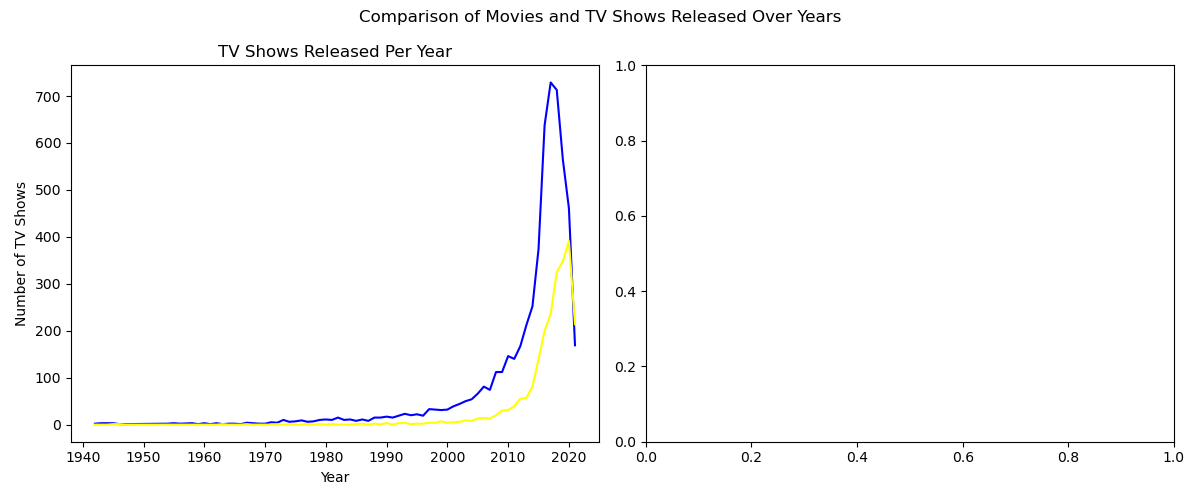
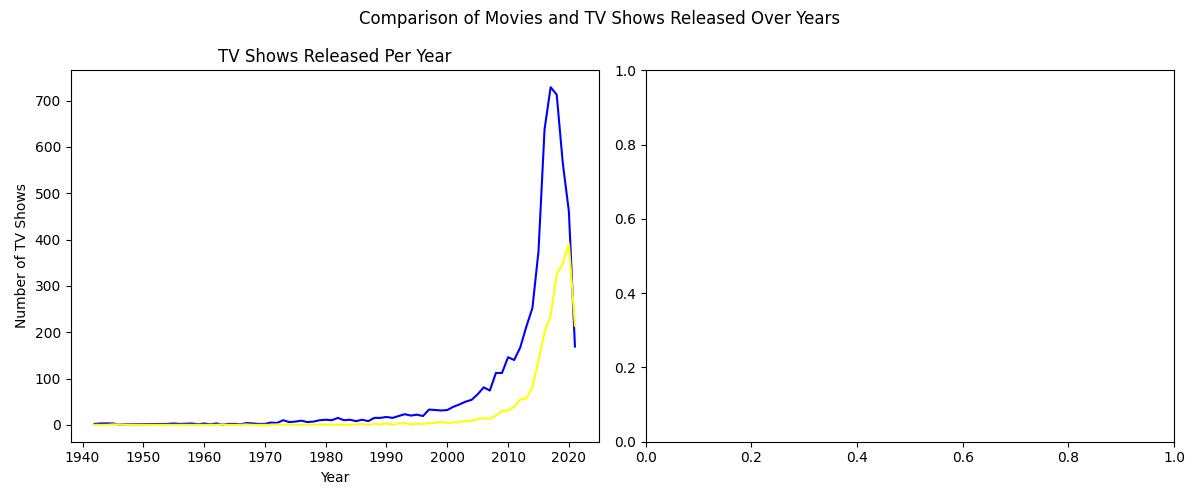
Updated Streamlit app with proper matplotlib display

diff --git a/netflix_data_visualization.py b/netflix_data_visualization.py
@@ -1,91 +1,73 @@
-#!/usr/bin/env python
-# coding: utf-8
-
-# In[1]:
-
-
+import streamlit as st
 import pandas as pd
 import matplotlib.pyplot as plt
-#load data
-df = pd.read_csv('netflix_titles.csv')
 
-#clean data
-df = df.dropna(subset=['type','release_year','rating','country','duration'])
+# Title
+st.title("📊 Netflix Data Visualization")
+
+# Load the CSV
+df = pd.read_csv("netflix_titles.csv")
+
+# Clean data
+df = df.dropna(subset=['type', 'release_year', 'rating', 'country', 'duration'])
+
+# Type count (Movies vs TV Shows)
+st.subheader("1. Number of Movies vs TV Shows on Netflix")
 type_counts = df['type'].value_counts()
-plt.figure(figsize=(6,4))
-plt.bar(type_counts.index,type_counts.values,color=['skyblue','orange'])
-plt.title('Number of Movies  VS TV Shows on Netflix')
-plt.xlabel('Type')
-plt.ylabel('Count')
-plt.tight_layout()
-plt.savefig('movies_vs_tvshows.png')
-plt.show()
+fig1, ax1 = plt.subplots()
+ax1.bar(type_counts.index, type_counts.values, color=['skyblue', 'orange'])
+ax1.set_title('Number of Movies vs TV Shows')
+ax1.set_xlabel('Type')
+ax1.set_ylabel('Count')
+st.pyplot(fig1)
 
+# Content Ratings
+st.subheader("2. Percentage of Content Ratings")
 rating_counts = df['rating'].value_counts()
-plt.figure(figsize = (8,6))
-plt.pie(rating_counts,labels=rating_counts.index,autopct= '%1.1f%%',startangle=90)
-plt.title('Percentage of Content Ratings')
-plt.tight_layout()
-plt.savefig('content_Ratings_pie.png')
-plt.show()
+fig2, ax2 = plt.subplots()
+ax2.pie(rating_counts, labels=rating_counts.index, autopct='%1.1f%%', startangle=90)
+ax2.set_title('Content Ratings')
+st.pyplot(fig2)
 
+# Movie durations
+st.subheader("3. Movie Duration Distribution")
 movie_df = df[df['type'] == 'Movie'].copy()
-movie_df['duration_int'] = movie_df['duration'].str.replace('min','').astype(int)
+movie_df['duration_int'] = movie_df['duration'].str.replace('min', '').astype(int)
+fig3, ax3 = plt.subplots()
+ax3.hist(movie_df['duration_int'], bins=30, color='seagreen', edgecolor='black')
+ax3.set_title('Movie Duration Distribution')
+ax3.set_xlabel('Duration (minutes)')
+ax3.set_ylabel('Number of Movies')
+st.pyplot(fig3)
 
-plt.figure(figsize=(8,6))
-plt.hist(movie_df['duration_int'], bins=30,color = 'seagreen',edgecolor='black')
-plt.title('Distribution of Movie Duration')
-plt.xlabel('Duration (minutes)')
-plt.ylabel('Number of Movies')
-plt.tight_layout()
-plt.savefig('movies_Duration_histogram.png')
-plt.show()
-
+# Release year vs show count
+st.subheader("4. Release Year vs Number of Shows")
 release_counts = df['release_year'].value_counts().sort_index()
-plt.figure(figsize=(10,6))
-plt.scatter(release_counts.index,release_counts.values,color='red')
-plt.title('Release Year VS Number of Shows')
-plt.xlabel('Release Year)')
-plt.ylabel('Number of Shows')
-plt.tight_layout()
-plt.savefig('release_year_Scatter.png')
-plt.show()
+fig4, ax4 = plt.subplots()
+ax4.scatter(release_counts.index, release_counts.values, color='red')
+ax4.set_title('Release Year vs Number of Shows')
+ax4.set_xlabel('Release Year')
+ax4.set_ylabel('Number of Shows')
+st.pyplot(fig4)
 
-
+# Top 10 countries
+st.subheader("5. Top 10 Countries by Number of Shows")
 country_counts = df['country'].value_counts().head(10)
+fig5, ax5 = plt.subplots()
+ax5.barh(country_counts.index, country_counts.values, color='teal')
+ax5.set_title('Top 10 Countries')
+ax5.set_xlabel('Number of Shows')
+ax5.set_ylabel('Country')
+st.pyplot(fig5)
 
-plt.figure(figsize=(8,6))
-plt.barh(country_counts.index, country_counts.values, color='teal')
-plt.title('Top 10 Countries VS Number of Shows')
-plt.xlabel('Number of shows')
-plt.ylabel('Country')
-plt.tight_layout()
-plt.savefig('top10_countries.png')
-plt.show()
-
-
+# Movies vs TV Shows Over the Years
+st.subheader("6. Movies vs TV Shows Released Over Years")
 content_by_year = df.groupby(['release_year', 'type']).size().unstack().fillna(0)
-fig, ax = plt.subplots(1, 2, figsize=(12, 5))
-
-#first subplot : Movie
-ax[0].plot(content_by_year.index, content_by_year['Movie'], color='blue')
-ax[0].set_title('Movies Released Per Year')
-ax[0].set_xlabel('Year')
-ax[0].set_ylabel('Number of Movies')
-
-# Second subplot: TV Shows
-ax[0].plot(content_by_year.index, content_by_year['TV Show'], color='yellow')
-ax[0].set_title('TV Shows Released Per Year')
-ax[0].set_xlabel('Year')
-ax[0].set_ylabel('Number of TV Shows')
-
-# Main title
-fig.suptitle('Comparison of Movies and TV Shows Released Over Years')
-plt.tight_layout()
-plt.savefig('movies_tv_shows_comparison.png')
-plt.show()
-
-
-
-
-
+fig6, ax6 = plt.subplots()
+ax6.plot(content_by_year.index, content_by_year['Movie'], color='blue', label='Movies')
+ax6.plot(content_by_year.index, content_by_year['TV Show'], color='gold', label='TV Shows')
+ax6.set_title('Movies and TV Shows Over the Years')
+ax6.set_xlabel('Year')
+ax6.set_ylabel('Count')
+ax6.legend()
+st.pyplot(fig6)
